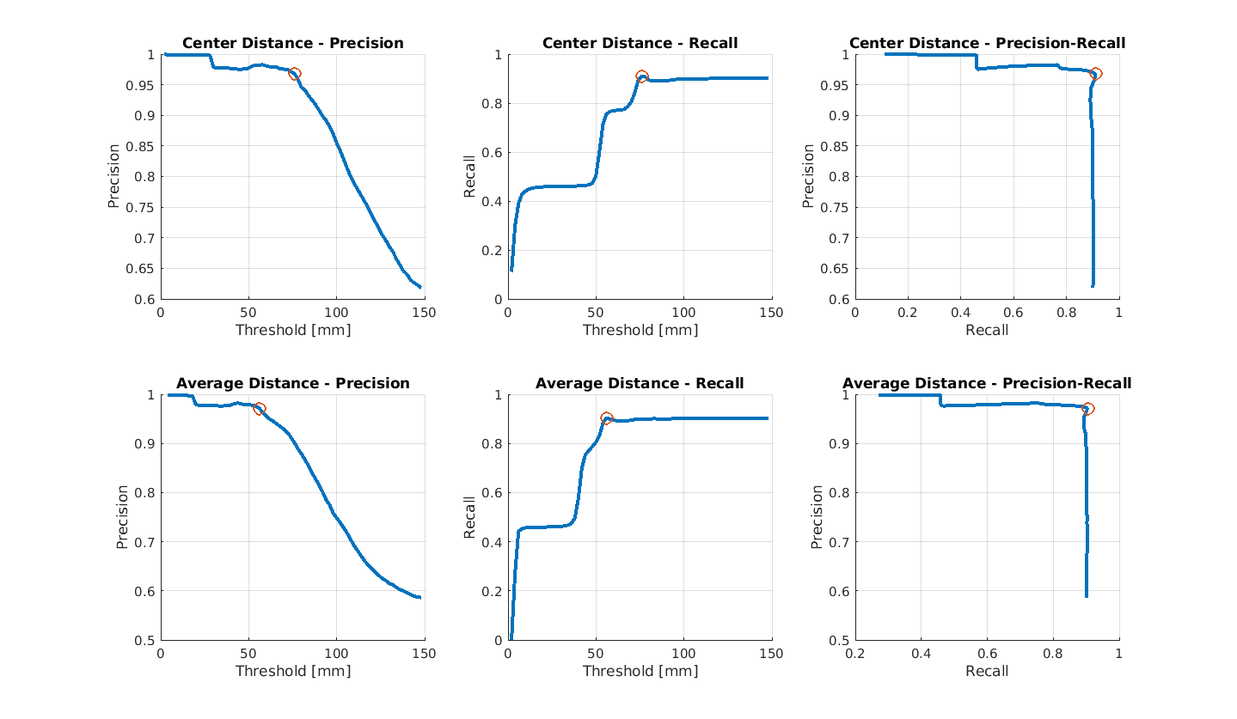
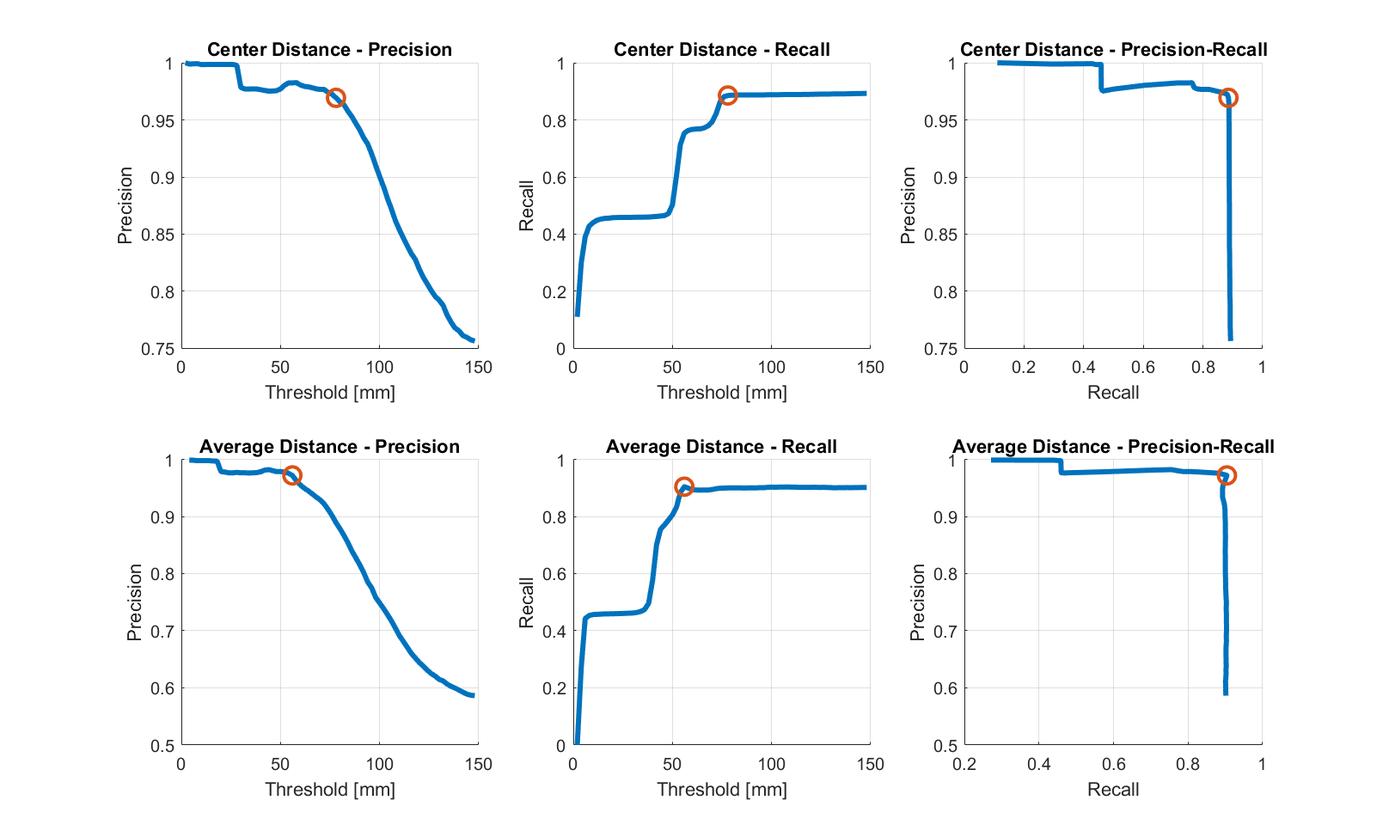
Continued chapter 3

diff --git a/latex/Chapters/chapter_3.tex b/latex/Chapters/chapter_3.tex
@@ -12,7 +12,7 @@ These datasets consist of a collection of images containing the object we wish t
 
 One possible solution is to use rendering software, which can generate potentially infinite quantites of training images with associated, perfectly accurate ground truths. However, while a model trained on this data could function in simulation, we have no guarantee whether it would also function in real life. This is because a simulated sensor and simulated enviroment are unable to reproduce unmodeled physical effects and noise in the same way a real sensor would with a real environment. This issue, dubbed the "reality gap"\cite{domainRandomization2}, is recurring in any field which relies on simulations to supply data.
 
-Domain Randomization\cite{domainRandomization} is one of the most utilised methods for solving this issue. It states that introducing sufficient variability in the simulated domain will allow the model to generalise to the real world with no additional training. This allows us to entirely skip the laborious data collection step and instead rely on a 3D model of the object we wish to track, which is usually readily available and accurate.
+Domain Randomization\cite{domainRandomization} is one of the most utilised methods for solving this issue. Its principle states that introducing sufficient variability in the simulated domain will allow the model to generalise to the real world with no additional training. This allows us to entirely skip the laborious data collection step and instead rely on a 3D model of the object we wish to track, which is usually readily available and accurate.
 
 Thus our objective is the creation of a fully rendered dataset for our network, and the evalutation of the performance of the network trained on this synthetic data in real life applications.
 
@@ -21,16 +21,16 @@ Thus our objective is the creation of a fully rendered dataset for our network, 
 
 To render the images for our dataset, we used the Unity Perception package\cite{unityPerception}, which integrates domain randomization features into its pipeline. Unity Perception works by simulating a scene, and then rendering each simulated frame from the perspective of a virtual camera. 
 
-When setting up the simulation, we specify the number of iterations to simulate and the number of frames to render for each iteration. At the beginning of each iteration, we call a set of randomizers. These set one of the domain variables for the iteration, such as the pose of an object or the colour of the light source, by extracting a value from a probability distribution. The scene is then updated according to the extracted variables, rendered, and the associated ground truth saved.
+When setting up the simulation, we specify the number of iterations to simulate and the number of frames to render for each iteration. At the beginning of each iteration, we call a set of randomizer scripts. These set one of the domain variables for the iteration, such as the pose of an object or the colour of the light source, by extracting its value from a pre-defined probability distribution. The scene is then updated according to these variables, rendered, and the associated ground truth saved.
 
 \begin{figure}
     \centering
     \includegraphics[width=0.6\textwidth]{screwdataset/ScrewDataset.png}
-    \caption{One of the images generated with Unity's Perception package for training our model, with a zoom-in on the screw.}
+    \caption{One of the images generated with Unity's Perception package for training our model.}
     \label{fig:screwdataset}
 \end{figure}
 
-As a test case, we decided to generate a pose estimation dataset for a standard M6x30 hexagonal head screw. This is a very challenging object, as it is small and symmetric (the reason why symmetric objects are difficult for pose estimation is explained in depth in appendix A.2). The model of the M6x30 screw was obtained from the FreeCAD Fasteners workbench\cite{Fasteners} and colored with a metallic texture.
+As a test case, we decided to generate a pose estimation dataset for a standard M6x30 hexagonal head screw. This is a very challenging object, as it is small and symmetric. Symmetric objects have always been difficult for pose estimation algorithms, due to reasons explained in depth in appendix 1. The model of the M6x30 screw was obtained from the FreeCAD Fasteners workbench\cite{Fasteners} and colored with a metallic texture.
 
 The domain for this dataset consists of images of the screw placed inside of a scene: thus the primary domain variables are the pose, the background, and the lighting. We used a custom randomizer to set position and rotation for each iteration, and default randomizers provided as part of the Perception package to generate a background, composed by random 3D shapes placed with random positions, orientations and textures. Finally, we used a custom randomizer to set the lighting color, intensity and origin. A sample image from this dataset appears in figure \ref{fig:screwdataset}.
 
@@ -38,7 +38,7 @@ We can then interface the output of this procedure with EfficientPose using a co
 
 \subsection{Training}
 
-The original version of EfficientPose is trained on LINEMOD. However, the specifics of LINEMOD and of our own dataset are widely different: LINEMOD has around 1200 images per object, and only about 200 of these are used for training, while our dataset has 10000 images, 9000 of which are used for training. This means that we must set proper training parameters for our own situation.
+The original version of EfficientPose is trained on LINEMOD. However, the specifics of LINEMOD and of our own dataset are widely different: LINEMOD has around 1200 images per object, and only about 200 of these are used for training, while our dataset has 10000 images, 9000 of which are used for training. This means that we must set proper training parameters for our own dataset.
 
 First, we reduced the number of epochs from 5000 to 100. Since our dataset contains 45 times more images, these two values represent a similar training time. EfficientPose also by default evaluates the model only every 10 epochs due to the small epoch size; we change this value to evaluate at the end of every epoch.
 
@@ -56,7 +56,7 @@ The initial and minimum learning rates are mantained identical to EfficientPose'
 
 After 100 epochs of training, the progress of which is shown in figure \ref{fig:screwdataset_training}, the model has a final ADD of 22.2\%, with a peak value obtained during training of 24.8\%, much lower than the 97.35\% reported by EfficientPose on LINEMOD. We can hypothesize that the reason for this performance gap is that the rendered dataset is much more difficult than LINEMOD, since we are dealing with a very small, symmetric object hidden inside a chaotic, colorful background with widely differing light conditions.
 
-Another serious issue, that is more difficult to convey on paper, is that the model is not able to bridge the reality gap: while testing in real-life scenarios, it failed to identify the screw in most conditions, let alone produce accurate estimations. This means that it generalises poorly outside of the simulated environment, making it essentially unuseable.
+Another serious issue, that is more difficult to convey on paper, is that the model is not able to bridge the reality gap: while testing in real-life scenarios, it failed to identify the screw in most conditions, let alone produce accurate estimations. This means that it generalises poorly outside of the simulated environment, making it essentially unuseable in real applications.
 
 \section{Augmented Reality Datasets}
 
@@ -164,9 +164,9 @@ With this method, for each background we can quickly generate a series of traini
     \label{fig:ScrewPoseAugmented}
 \end{figure}
 
-The training dataset we generated has two major weaknesses. First, there is a limited number of background images, which means that the model has a finite number of camera positions to learn from. This may lead to overfitting and unreliable results for positions that don't have sufficient representation. Second, it is difficult to randomize light intensity and color for the background images inside Unity, as it is decoupled from the same settings for the 3D models.
+The dataset generated with the previous methodology has two major weaknesses. First, there is a limited number of background images, which means that the model has a finite number of camera positions to learn from. This may lead to overfitting and unreliable results for positions that don't have sufficient representation. Second, it is difficult to randomize light intensity and color for the background images inside Unity, as it is decoupled from the same settings for the 3D models.
 
-We can remedy these issues using data augmentation. This is a technique that involves applying random changes to data during training, similarly to how domain randomization would randomize them during generation. EfficientPose already provides two data augmentation methods: 6DoF and color augmentation. 6 Degree-of-Freedom augmentation involves randomly rescaling and rotating the input image and consequently adjusting the ground truth, so as to greatly increase the number of possible poses each image can provide. Color augumentation instead implements RandAugment\cite{RandAugment} to change the color and grain for the entire image. Applying both these methods results in images such as the one depicted in figure \ref{fig:ScrewPoseAugmented}, conveniently fixing the issues of our dataset.
+We can remedy these issues using data augmentation. This is a technique that involves applying random changes to data during training, similarly to how domain randomization would apply them during dataset generation. EfficientPose already provides two data augmentation methods: 6 Degree-of-Freedom augmentation and color augmentation. 6 Degree-of-Freedom augmentation involves randomly rescaling and rotating the input image and consequently adjusting the ground truth, so as to greatly increase the number of possible poses each image can provide. Color augumentation instead implements RandAugment\cite{RandAugment} to change the color and grain for the entire image. Applying both these methods results in images such as the one depicted in figure \ref{fig:ScrewPoseAugmented}, conveniently fixing the issues of our dataset.
 
 Other training parameters are identical to the previous attempt with the fully generated dataset: 100 epochs, with an 80\% learning rate reduction if the model stagnates for 5 epochs.
 
@@ -186,7 +186,7 @@ Other training parameters are identical to the previous attempt with the fully g
             Average & 0.9615 & 2.4271 & 82.05\% \\
             \hline    
         \end{tabular}
-        \caption{Evaluation of the Average Precision, Average Symmetric Distance, and ADD-S metrics on the partially rendered dataset after training.}
+        \caption{Evaluation of the Average Precision, Average Symmetric Distance, and ADD-S metrics on the augmented reality dataset after training.}
         \label{tab:screwpose}
     \end{center}
 \end{table}
@@ -205,7 +205,7 @@ Furthermore, the model is capable of generalising to real life situations withou
 
 \begin{figure}[ht]
     \includegraphics[width=\textwidth]{screwpose_inferencing.png}
-    \caption{Four images displaying pose estimations from the network. The left two are part of the evaluation dataset and display ground truths with green bounding boxes, the right two are captures from a real camera in the testing environment.}
+    \caption{Four images displaying pose estimations from the network for the augmented reality dataset. The left two are part of evaluation and display ground truths with green bounding boxes, the right two are captures from a real camera in the testing environment.}
     \label{fig:screwpose_inferencing}
 \end{figure}
 
@@ -219,7 +219,7 @@ Thus we want to ascertain if it is viable to use pose estimation techniques to t
 
 \subsection{Dataset Generation and Training}
 
-The first step to working with neural networks is again the generation of the datasets required for training and evaluation. For our task, we are considering the assembly of a set of modular button boards. We have two boards, one with two slots, and one with three slots. These slots can be filled in any order with one of three buttons: a larger safety button with a mushroom cap, and two smaller buttons with different designs on their faces, but identical shape. The CAD models for these objects were available online from the supplier's website, and we used Blender to color them appropriately. Renders for these objects are depicted in figure \ref{fig:buttonpose_objects}.
+The first step to working with neural networks is again the generation of the datasets required for training and evaluation. For our task, we are considering the assembly of a set of modular button boards. We have two boards, one with two slots, and one with three slots. These slots can be filled in any order with one of three buttons: a larger safety button, and two smaller buttons with different designs on their faces, but identical shape. The CAD models for these objects were available online from the supplier's website, and we used Blender to color them appropriately. Renders for these objects are depicted in figure \ref{fig:buttonpose_objects}.
 
 \begin{figure}[ht]
     \includegraphics[width=0.6\textwidth]{buttonpose_objects.png}
@@ -229,9 +229,11 @@ The first step to working with neural networks is again the generation of the da
 
 To generate the dataset images we can use the same method used for the Augmented Reality dataset, however we have a few noticeable differences that require consideration. The first obvious one is that we would like to represent the buttons not only while they are freely placed on the table surface, but also when they are slotted into a board. This is achievable by positioning the button with the same pose as the board, and then applying a final roto-translation that shifts the button into a slot. We can compute these transformations in advance and simply apply them when necessary.
 
-The second, more insidious issue has to do with the two buttons with identical shape. These buttons are distinguishable only by the different designs on their faces, but when placing them randomly, there is a good chance that these faces are not visible. This leads to a situations where it is impossible to differentiate between the two, causing a drastic drop in performance, as during training the network will percieve a large number of false positives.
+One important thing to note is that these roto-translations depend on the shape of the button: thus the safety button will require different values compared to the other two.
 
-To solve this issue, we can add a fictional object to the dataset, the "unidentified button". Simply put, we categorize buttons without their unique face visible as a new object class, since it is impossible for the network to directly classify them as one type or the other.
+The second, more insidious issue has to do with the two smalle buttons with identical shape. These buttons are distinguishable only by the different designs on their faces, but when placing them randomly, there is a good chance that these faces are not visible. This leads to a situations where it is impossible to differentiate between the two, causing a drastic drop in performance, as during training the network will percieve a large number of false positives.
+
+To solve this issue, we can add a fictional object to the dataset, the "unidentified button". Simply put, we categorize buttons without their unique face visible as a new object class, since it is impossible for the network to directly identify them as one type or the other.
 
 \begin{figure}[ht]
     \includegraphics[width=\textwidth]{buttonpose_placement.png}
@@ -239,7 +241,7 @@ To solve this issue, we can add a fictional object to the dataset, the "unidenti
     \label{fig:buttonpose_placement}
 \end{figure}
 
-We can use a simple geometric method to determine if a button's face is visible, explicated in figure \ref{fig:button_occlusion}. Considering the origin of the camera reference frame $O = [0, 0, 0]^T$, the button's pose is given by the translation vector $t$ and the rotation matrix R. $t$ also indicates the position of the center of the button $C$, due to it being the origin of the button's 3D model. If we then consider the vector $f = [f_x, f_y, f_z]^T$ indicating the position of the center of the button's face $F$ in the button's frame of reference, the position of this point in the camera frame is given by:
+We can use a simple geometric method to determine if a button's face is visible during generation, explicated in figure \ref{fig:button_occlusion}. Considering the origin of the camera reference frame $O = [0, 0, 0]^T$, the button's pose is given by the translation vector $t$ and the rotation matrix R. $t$ also indicates the position of the center of the button $C$, due to it being the origin of the button's 3D model. If we then consider the vector $f = [f_x, f_y, f_z]^T$ indicating the position of the center of the button's face $F$ in the button's frame of reference, the position of this point in the camera frame is given by:
 
 \begin{figure}
     \includegraphics[width=0.7\textwidth]{button_occlusion.png}
@@ -263,4 +265,136 @@ By making $\alpha$ explicit in this equation we obtain:
     \alpha = \cos^{-1}\left(\frac{t^Tt- b^Tb-f^Tf}{2||b||\cdot||f||}\right)
 \end{equation*}
 
-It is simple to verify geometrically that the button's face is occluded whenever $\alpha < 90\degree$, and viceversa. To avoid strange edge cases where the button's face is barely visible in the proximity of $\alpha = 90\degree$, we introduce a small buffer angle $\beta$, usually around 5\degree. Thus we categorize a button as unrecognizeable whenever $\alpha < 90\degree + \beta$.
+It is simple to verify geometrically that the button's face is occluded whenever $\alpha < 90\degree$, and viceversa. To avoid strange edge cases where the button's face is barely visible in the proximity of $\alpha = 90\degree$, we introduce a small buffer angle $\beta$, usually around 5\degree. Thus we categorize a button as unrecognizeable whenever $\alpha < 90\degree + \beta$, overwriting its class in the ground truths with the "unknown button" class.
+
+Thus we have a method for creating arbitrarily large datasets for our application. We decided to generate 20'000 images, where 18'000 are used for training and 2'000 for verification. Therefore we reduced the number of epochs to 40, and the patience for learning rate reduction to 3 epochs. All other parameters are identical to our previous attempts.
+
+\begin{figure}
+    \includegraphics[width=\textwidth]{buttonpose_training.png}
+    \caption{Evolution of the loss, AD-S and ADD-S metrics during training for the partially rendered dataset. The loss is computed as the AD-S metric on the training dataset.}
+    \label{fig:buttonpose_training}
+\end{figure}
+
+\begin{table}[ht]
+    \begin{center}
+        \begin{tabular}{|c||c|c|c|}
+            \hline
+            Object & AP & AD-S [mm] & ADD-S \\
+            \hline \hline
+            2-slot & 0.9990 & 3.5420 & 99.90\% \\
+            3-slot & 0.9985 & 3.9304 & 99.85\% \\
+            red button & 0.9260 & 1.9825 & 86.01\% \\
+            arrow button & 0.9349 & 2.0497 & 86.05\% \\
+            safety button & 0.9962 & 2.6053 & 98.01\% \\
+            unknown button & 0.9561 & 2.4757 & 82.95\% \\
+            \hline \hline
+            Average & 0.9685 & 2.76 & 92.13\% \\
+            \hline    
+        \end{tabular}
+        \caption{Evaluation of the Average Precision, Average Symmetric Distance, and ADD-S metrics on the buttons dataset after training.}
+        \label{tab:buttonpose}
+    \end{center}
+\end{table}
+
+Training resulted in abnormally good performance for the boards, reaching over 99\% ADD-S and AP for both. The larger safety button also obtained great results, with a 98\% ADD-S, while the other buttons achieved more middling performances, but still better than the 79.04\% ADD benchmark repored on Occlusion-LINEMOD.
+
+\begin{figure}[ht]
+    \includegraphics[width=\textwidth]{buttonpose_inferencing.png}
+    \caption{Four images displaying pose estimations from the network for the button dataset. The left two are part of evaluation and display ground truths with green bounding boxes, the right two are captures from a real camera in the testing environment.}
+    \label{fig:buttonpose_inferencing}
+\end{figure}
+
+\subsection{Thresholding}
+
+Now that we have a dataset and a model trained on it, we can begin the task of creating a method to identify the state of the overall assembly. There are two pieces to this assembly: buttons and the boards they're to be slotted in. The problem now becomes: given the position of a button and the position of a board, how does one determine whether the button is slotted into the board, and in which slot?
+
+A simple and intuitive way to handle this problem is through the computation of a distance metric: given a slot and a button, if the "distance" between the two is less than a threshold, we can reasonably affirm that the button is in the slot. We considered two different distance metrics for this task: center-to-center distance and average symmetric distance.
+
+Center-to-center distance is the distance between the estimated position of the center of the button $C$, and the position this center would have if the button was already in the slot, $C'$, as depicted in figure \ref{fig:center2center}. While the first position is a direct output of our network, the second one must be obtained from the succession of three roto-translations: one from the camera reference to the position of the board, which is a direct output of the network; a second to the position of the slot relative to the board, which is known for each slot; and the last one from the position of the slot to the position of the hypothetical button center, which varies based on the geometry of the button.
+
+\begin{figure}[ht]
+    \includegraphics[width=0.6\textwidth]{Center-to-center.png}
+    \caption{Depiction of the center-to-center distance from a button to a slot. In black is the estimated pose of the button, while in red is the estimated position of a button if it was hypothetically already in the slot.}
+    \label{fig:center2center}
+\end{figure}
+
+The average symmetric distance is instead identical to the AD-S computed as a metric during training and evaluation. Considering again the estimated pose of the button $(\text{R}, t)$ and the pose the button would have if it was considered in the slot $(\text{R}', t')$, the average distance is computed as:
+
+\begin{equation*}
+    \text{AD-S} = \frac{1}{n} \sum_{x_1 \in M} \min_{x_2 \in M} ||(\text{R}x_2 + \text{t}) - 
+    (\text{R}'x_1 + \text{t}')||_2
+\end{equation*}
+
+... where M is the set of the points composing the button's 3D model, and n is the number of points considered. While this metric has the advantage of considering differences in rotation, which center-to-center is unable to do, it is also much more demanding computationally, depending on the number of points considered.
+
+However, these metrics alone are insufficient to solve our problem. This is because, since each slot is in close proximity with others, for higher thresholds there will be conflicts where multiple slots are within range of the same button or multiple buttons are in range of the same slot, as depicted in figure \ref{fig:conflicts}.
+
+\begin{figure}[ht]
+    \includegraphics[width=0.8\textwidth]{buttons_conflict.png}
+    \caption{Schematic depiction of two hypothetical situations that would generate conflicts by placing multiple buttons within the threshold of a single slot or vice-versa.}
+    \label{fig:conflicts}
+\end{figure}
+
+To resolve these conflicts, we introduce an intuitive "double check" method that provides excellent results with minimal complexity. This method requires three steps:
+
+\begin{enumerate}
+    \item For each button, we assign it to the closest slot within the threshold, if there is one.
+    \item For each slot, we assign it to the closest button within the threshold, if there is one.
+    \item For each assignment, it is confirmed only if it is reciprocated, and otherwise it is ignored.
+\end{enumerate}
+
+An assignment from a slot to a button is considrered reciprocated only if the button is also assigned to the slot, and vice-versa
+
+\begin{figure}[ht]
+    \includegraphics[width=0.8\textwidth]{buttons_resolution.png}
+    \caption{Schematic depiction of the resolution of the conflicts previously depicted in figure \ref{fig:conflicts}. Green arrows represent reciprocating assignments, which are confirmed, while red arrows represent non-reciprocating assignments, which are ignored.}
+    \label{fig:resolution}
+\end{figure}
+
+Now that we have a way to resolve conflicts, we must select the optimal threshold that maximises the performance of our method. To do this we will use the concepts of precision and recall applied to our generated dataset. Given a binary classification problem such as ours (a button can either be in a slot or not), based on the output of our method we can build a confusion matrix as shown in table \ref{tab:cmatrix}.
+
+\begin{table}[ht]
+    \begin{center}
+        \begin{tabular}{c||c|c}
+            \space & Actual Positives & Actual Negatives\\
+            \hline\hline
+            Predicted Positives & True Positives (TP)& False Positives (FP)\\
+            \hline
+            Predicted Negatives & False Negatives (FN)& True Negatives (TN)\\
+        \end{tabular}
+        \caption{Generation of the confusion matrix.}
+        \label{tab:cmatrix}
+    \end{center}
+\end{table}
+
+From these values, precision and recall are defined as:
+
+\begin{align*}
+    \text{Precision} =& \frac{\text{TP}}{\text{TP}+\text{TN}} \\
+    & \\
+    \text{Recall} =& \frac{\text{TP}}{\text{TP}+\text{FN}}
+\end{align*}
+
+We want to maximise both of these metrics. To do this, we can plot them as a function of the threshold, and as a function of each other in a precision-recall graph, depicted in figure \ref{fig:precisionrecall}.
+
+\begin{figure}[ht]
+    \includegraphics[width=\textwidth]{precision-recall.png}
+    \caption{Precision and recall for both distance metrics on the button dataset. The point with the best F1 score is highlighted by a red circle.}
+    \label{fig:precisionrecall}
+\end{figure}
+
+As can be seen from the figure, higher thresholds greatly impact the precision of our model while lower thresholds greatly impact its recall. Overall we maintain high values, but our maximum recall is limited by the performance of the network to a maximum of abount 90\%. To select the optimal threshold, we consider the F1 score, which is a balanced function of precision and recall:
+
+\begin{equation*}
+    \text{F1} = 2\times\frac{\text{Precision}\times\text{Recall}}{\text{Precision}+\text{Recall}}
+\end{equation*}
+
+For the average symmetric distance method, this results in a maximum F1 score of 0.9369, corresponding to a threshold of 56 mm, while for the center-to-center method the maximum is 0.9255, corresponging to a 78 mm threshold. A few observations can be made with these results.
+
+First of all, for our application there is no great advantage in using average distance over center-to-center. Given the additional complexity and computation time, the increase in performance is not significant.
+
+Second is that we have an abnormally high threshold for both methods. This can be attributed to the generated dataset: by stating that the buttons can only be either inside a slot or placed on the surface, we are in fact considering an ideal situation where a hypothetical manipulator does not commit any errors in picking up and inserting the buttons in their slots. If botched attempts are considered in the dataset, it is likely that the optimal threshold will be lower, and that the average distance method, being more adaptable to situations with different rotations, may give better results than center-to-center.
+
+Finally, the threshold is also influenced by the probability distribution we used for generating the poses for the button dataset, which in our case being a uniform distribution resulted in a more spread-out placement, thus a higher optimal threshold. This is further compounded by the brute-force collision avoidance strategy implemented within the placement algorithm: if a placement attempt would generate an intersection with an already placed object, the placement was simply re-attempted from scratch. This naturally results in less conditions where dataset objects are in close proximity, and therefore in a higher threshold.
+
+However it must be noted that creating a real-life dataset for determining the optimal threshold is much more approachable than creating a dataset for training a pose estimation network, as the ground truths are easy to aquire without any errors.

diff --git a/latex/Chapters/appendix.tex b/latex/Chapters/appendix.tex
@@ -1,13 +1,10 @@
-\chapter*{Appendices}
-\addcontentsline{toc}{chapter}{Appendix}
+\chapter{Appendices}
 
-\section*{Appendix A: Computation of Evaluation Metrics}
-\addcontentsline{toc}{section}{A    Computation of Evaluation Metrics}
+\section{Appendix: Computation of Evaluation Metrics}
 
 In this appendix we will examine the methodologies used to compute the evaluation metrics in this paper. These are median Average Precision, Average Distance, symmetric Average Distance, and Average Distance Distribution.
 
-\subsection*{Median Average Precision (mAP)}
-\addcontentsline{toc}{subsection}{A.1   Median Average Precision}
+\subsection{Median Average Precision (mAP)}
 
 Object detection and 2D bounding box regression performance are both evaluated using median Average Precision (mAP). This metric exploits the intersection over union (IoU), computed as:
 
@@ -50,8 +47,7 @@ The median Average Precision is then simply obtained as the average AP over all 
     \text{mAP} = \frac{1}{n} \sum_{i=1}^{n} \text{AP}_{i}
 \end{equation*}
 
-\subsection*{Average Distance (AD) and Average Distance Distribution (ADD)}
-\addcontentsline{toc}{subsection}{A.2   Average Distance}
+\subsection{Average Distance (AD) and Average Distance Distribution (ADD)}
 
 Average Distance is the most used metric for evaluating pose estimation methods. Given $n$ points belonging to the 3D model $M$, this metric represents the average distance between these points transformed according to the ground truth ($\text{R}, \text{t}$) and according to the prediction ($\hat{\text{R}}, \hat{\text{t}}$):
 
@@ -68,7 +64,7 @@ To combat this issue, we use the Symmetric Average Distance (AD-S)\cite{PoseCNN}
 
 \begin{equation*}
     \text{AD-S} = \frac{1}{n} \sum_{x_1 \in M} \min_{x_2 \in M} ||(\text{R}x_2 + \text{t}) - 
-    (\hat{\text{R}}_1 + \hat{\text{t}})||_2
+    (\hat{\text{R}}x_1 + \hat{\text{t}})||_2
 \end{equation*}
 
 This is very similar to the loss used in the ICP algorithm, as it only considers the distance from each point to its closest correspodent in the ground truth. Analogously to ADD, we then implement ADD-S as the percentage of correct poses.
